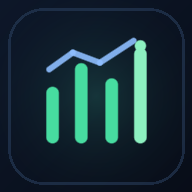
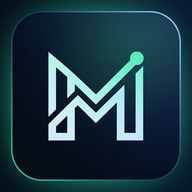
chore: simplify application version to v11
Update branding in UI, PWA manifest, and backup filenames to reflect v11. Added missing PWA icon mapping and updated the application icon asset.

diff --git a/src/components/Layout.tsx b/src/components/Layout.tsx
@@ -129,15 +129,18 @@ export const Layout: React.FC<LayoutProps> = ({
               onClick={() => handleSelectPage('dashboard')}
               className="flex items-center gap-2.5 text-left min-w-0 group"
             >
-              <span className="h-9 w-9 shrink-0 rounded-xl border border-white/20 bg-gradient-to-br from-[#235458]/95 to-[#0a1829]/95 flex items-center justify-center font-display text-xs font-extrabold tracking-tight text-[#8df0c0] shadow-[inset_0_1px_0_rgba(255,255,255,0.28)]">
-                MSL
-              </span>
+              <img
+                src="/pwa-192x192.png"
+                alt="MSL Journal"
+                referrerPolicy="no-referrer"
+                className="h-9 w-9 shrink-0 rounded-xl border border-white/15 object-cover shadow-[0_4px_14px_rgba(0,0,0,0.45)]"
+              />
               <span className="min-w-0">
                 <span className="block font-display text-sm sm:text-base font-extrabold tracking-tight text-[#eef3fb] whitespace-nowrap">
                   MSL Journal
                 </span>
                 <span className="block text-[10px] sm:text-[11px] font-medium text-[#7f8fa8] truncate tabular-nums">
-                  {displayName ? `${displayName} · Version 11.0.0` : 'Version 11.0.0'}
+                  {displayName ? `${displayName} · Version 11` : 'Version 11'}
                 </span>
               </span>
             </button>

diff --git a/index.html b/index.html
@@ -3,9 +3,9 @@
   <head>
     <meta charset="UTF-8" />
     <meta name="viewport" content="width=device-width, initial-scale=1.0, viewport-fit=cover" />
-    <title>MSL Trading Journal v11.0.0</title>
+    <title>MSL Trading Journal v11</title>
     <meta name="description" content="Private, local-first, offline-ready trading journal. Read the market. Respect the plan." />
-    <meta property="og:title" content="MSL Trading Journal v11.0.0" />
+    <meta property="og:title" content="MSL Trading Journal v11" />
     <meta property="og:description" content="Private, local-first, offline-ready trading journal. Read the market. Respect the plan." />
     <meta property="og:type" content="website" />
     <meta name="twitter:card" content="summary_large_image" />
@@ -16,6 +16,7 @@
     <meta name="apple-mobile-web-app-title" content="MSL Journal" />
     <link rel="apple-touch-icon" href="/apple-touch-icon.png" />
     <link rel="icon" type="image/svg+xml" href="/icon.svg" />
+    <link rel="icon" type="image/png" sizes="192x192" href="/pwa-192x192.png" />
     <link rel="dns-prefetch" href="https://fonts.googleapis.com" />
     <link rel="preconnect" href="https://fonts.googleapis.com" />
     <link rel="preconnect" href="https://fonts.gstatic.com" crossorigin />

diff --git a/src/screens/SettingsScreen.tsx b/src/screens/SettingsScreen.tsx
@@ -1173,7 +1173,7 @@ export const SettingsScreen: React.FC<SettingsScreenProps> = ({
           </p>
         </div>
         <div className="flex flex-wrap items-center gap-3 text-xs tabular-nums shrink-0">
-          <span className="font-semibold text-[#8df0c0]">Version 11.0.0</span>
+          <span className="font-semibold text-[#8df0c0]">Version 11</span>
           <span aria-hidden="true" className="text-[#56647c]">·</span>
           <span className="font-semibold text-[#eef3fb]">Developed by ANDROID</span>
         </div>

diff --git a/vite.config.ts b/vite.config.ts
@@ -15,7 +15,7 @@ export default defineConfig(() => {
         includeAssets: ['icon.svg', 'apple-touch-icon.png', 'pwa-192x192.png', 'pwa-512x512.png', 'pwa-maskable-512x512.png'],
         manifest: {
           id: '/',
-          name: 'MSL Trading Journal v11.0.0',
+          name: 'MSL Trading Journal v11',
           short_name: 'MSL Journal',
           description: 'Private, local-first, offline-ready trading journal. Read the market. Respect the plan.',
           theme_color: '#080d18',

diff --git a/src/App.tsx b/src/App.tsx
@@ -1554,7 +1554,7 @@ export default function App() {
     const url = URL.createObjectURL(blob);
     const a = document.createElement('a');
     a.href = url;
-    a.download = `MSL-Journal-v11.0.0-backup-${isoDate(new Date())}.json`;
+    a.download = `MSL-Journal-v11-backup-${isoDate(new Date())}.json`;
     a.click();
     window.setTimeout(() => URL.revokeObjectURL(url), 1000);
     showToast('Full backup downloaded.');

diff --git a/server.ts b/server.ts
@@ -21,7 +21,7 @@ const __filename = fileURLToPath(import.meta.url);
 const __dirname = path.dirname(__filename);
 
 const PORT = Number(process.env.PORT || 3000);
-const APP_VERSION = '11.0.0';
+const APP_VERSION = '11';
 const FAST_MODEL_NAME = 'gemini-3.1-flash-lite';
 const HYDROGEN_MODEL_NAME = 'gemini-4-hydrogen';
 const TTS_MODEL_NAME = 'gemini-3.8-flash-lite-tts';
